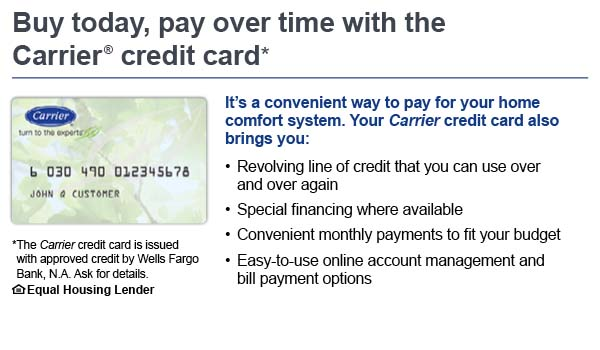
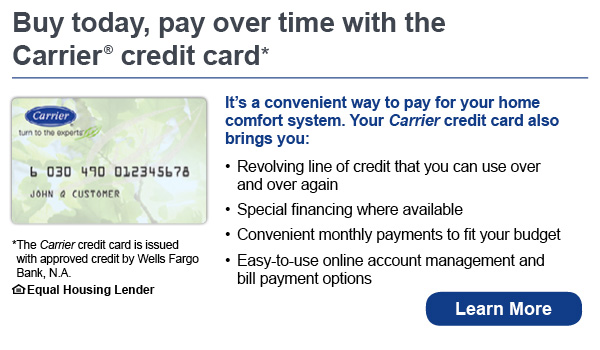
updated financing information based on wells fargo feedback and requests

diff --git a/layouts/partials/hero.html b/layouts/partials/hero.html
@@ -1,5 +1,5 @@
 {{ if eq .Title "Home" }}
-<div class="hero home-hero w-100" data-scroll-section>
+<div class="hero home-hero w-100">
   <div class="hero__inner container-wide flex flex-column flex-row-m flex-center">
     <div class="w-100 w-60-m">
       <h1>{{ .Params.HeroTitle }}</h1>
@@ -14,7 +14,7 @@
 </div>
 {{ else if eq .Params.has_hero_image true }}
 {{ $heroClass := lower .Page.Title }}
-<div class="short-hero {{ anchorize $heroClass }}-hero flex flex-center" data-scroll-section>
+<div class="short-hero {{ anchorize $heroClass }}-hero flex flex-center">
   <picture>
     <source sizes="100vw" srcset="{{ .Site.BaseURL }}/images/background-images/{{ anchorize $heroClass }}-hero-600.webp 500w, {{ .Site.BaseURL }}/images/background-images/{{ anchorize $heroClass }}-hero-1000.webp 800w, {{ .Site.BaseURL }}/images/background-images/{{ anchorize $heroClass }}-hero-1400.webp 1200w, {{ .Site.BaseURL }}/images/background-images/{{ anchorize $heroClass }}-hero-2500.webp 1600w" type="image/webp" >
     <source sizes="100vw" srcset="{{ .Site.BaseURL }}/images/background-images/{{ anchorize $heroClass }}-hero-600.jpg 500w, {{ .Site.BaseURL }}/images/background-images/{{ anchorize $heroClass }}-hero-1000.jpg 800w, {{ .Site.BaseURL }}/images/background-images/{{ anchorize $heroClass }}-hero-1400.jpg 1200w, {{ .Site.BaseURL }}/images/background-images/{{ anchorize $heroClass }}-hero-2500.jpg 1600w" type="image/jpeg" > 

diff --git a/content/financing/index.md b/content/financing/index.md
@@ -5,8 +5,8 @@ description: Knope Heating & Air Conditioning offers commercial & residential HV
 has_hero_image: true
 ---
 
-[Innovative Carrier products](/products/) are trusted in more homes than any other brand—and financing is no different. Through our relationship with Wells Fargo Financial National Bank, participating Carrier dealers offer a variety of flexible options for financing your new Carrier product or system. That way, you can invest in your home's comfort or respond to an unexpected heating and cooling need without breaking your monthly budget.
+[Innovative Carrier products](/products/) are trusted in more homes than any other brand—and financing is no different. Through our relationship with Wells Fargo Bank, N.A., participating Carrier dealers offer a variety of flexible options for financing your new Carrier product or system. That way, you can invest in your home's comfort or respond to an unexpected heating and cooling need without breaking your monthly budget.
 
-![Buy today, pay over time with the Carrier credit card](Wells-fargo-financing-banner.jpg)
+<a href="https://retailservices.wellsfargo.com/pl/0030033559" target="_blank" rel="noopener noreferrer"><img src="Wells-fargo-financing-banner.jpg" alt="Buy today, pay over time with the Carrier credit card" width="600" height="300"></a>
 
 **For more details regarding financing terms and options, call Knope Heating & Air Conditioning at <a href="tel:715-524-4215">715-524-4215</a>.** Terms are subject to change and should be verified when applying for credit. Offer is valid only for those with approved credit.
